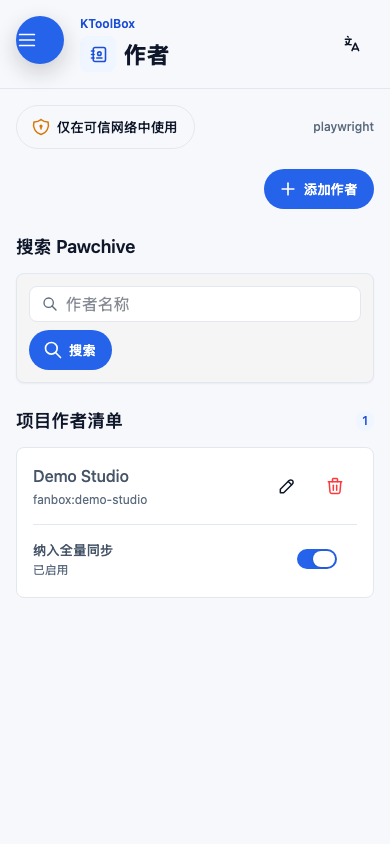
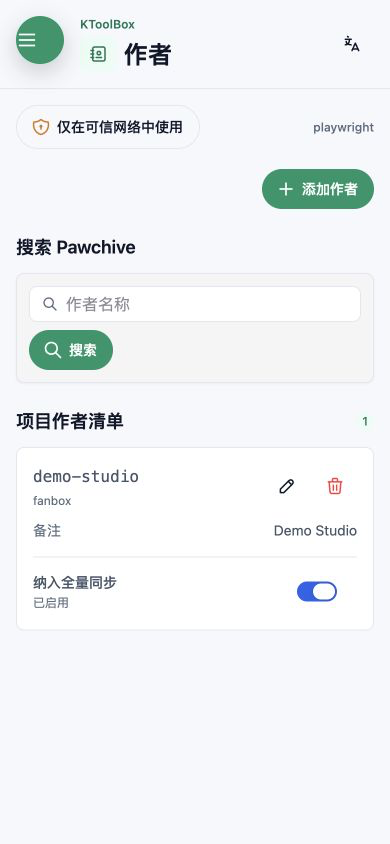
docs(webui): refresh verified form screenshots

diff --git a/docs/en/webui.md b/docs/en/webui.md
@@ -56,7 +56,7 @@ The main areas are:
 
 - **Overview:** project path, queue health, active transfer totals, and recent tasks.
 - **Tasks:** create, reorder, edit, pause, resume, stop, rerun, delete, and inspect synchronization or single-post downloads.
-- **Creators:** search Pawchive and add, rename, enable, disable, or remove roster entries.
+- **Creators:** search Pawchive and add, annotate, enable, disable, or remove roster entries.
 - **Posts:** search without rendering remote media or expanded body text, inspect revisions, and create a download task.
 - **Blockers:** order and scope `field-match` blockers and compose nested `any`/`all`, contains, equals, regular expression, and existence conditions.
 - **Configuration:** edit `.env`, `prod.env`, and `ktoolbox.toml` through typed forms or advanced text views.
@@ -65,6 +65,10 @@ The main areas are:
 ![Task editor on a narrow screen](../assets/webui/19-task-form-mobile-light-zh.png)
 
 ![Creator roster on a narrow screen](../assets/webui/12-creators-mobile-light-zh.png)
+
+Task creation uses two fixed tabs without overflow controls. Synchronization dates have independent optional start and end boundaries; selecting “No start date” or “No end date” immediately clears that boundary. Title filters use removable HeroUI Chips created with a comma or Enter. Single-work downloads and new roster entries compose Pawchive-style `/platform/user/creator/post/post` paths inside one accessible field group.
+
+Creator IDs lead both desktop rows and mobile entries. The optional roster note is shown separately and never replaces the identity. When editing an existing creator, its platform and creator ID remain visible but read-only because they identify the stored roster entry.
 
 ## Configuration editing
 

diff --git a/docs/zh/webui.md b/docs/zh/webui.md
@@ -56,7 +56,7 @@ KToolBox 只提供一个本地 WebUI 账户，且没有默认凭据。`KTOOLBOX_
 
 - **概览：** 项目路径、队列状态、活动传输统计和近期任务。
 - **任务：** 创建、排序、编辑、暂停、恢复、停止、重新执行、删除并查看同步或单篇下载。
-- **作者：** 搜索 Pawchive，并新增、改名、启停或移除清单项。
+- **作者：** 搜索 Pawchive，并新增、编辑备注、启停或移除清单项。
 - **作品：** 不加载远程媒体、不默认展开正文地搜索作品与查看修订，并创建下载任务。
 - **忽略规则：** 排序、设置作用域，并组合嵌套 `any`/`all`、包含、等于、正则和存在条件。
 - **配置：** 使用类型化表单或高级原文视图编辑 `.env`、`prod.env` 与 `ktoolbox.toml`。
@@ -65,6 +65,10 @@ KToolBox 只提供一个本地 WebUI 账户，且没有默认凭据。`KTOOLBOX_
 ![窄屏任务编辑器](../assets/webui/19-task-form-mobile-light-zh.png)
 
 ![窄屏作者清单](../assets/webui/12-creators-mobile-light-zh.png)
+
+创建任务使用两个固定标签，不会出现多余的滚动按钮。同步日期的起始与结束边界可以分别留空；勾选“不限起始日期”或“不限结束日期”会立即清空对应日期。标题筛选以可删除的 HeroUI Chip 展示，输入中英文逗号或回车即可添加。单个作品下载和新增作者都使用 Pawchive 风格的 `/平台/user/作者 ID/post/作品 ID` 组合路径控件。
+
+桌面表格与移动条目均以作者 ID 作为主身份，备注单独显示，不会替代作者 ID。编辑已有作者时，平台和作者 ID 保持可见但只读，因为两者共同标识项目清单中的条目。
 
 ## 配置编辑
 